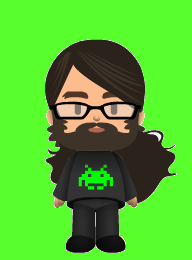
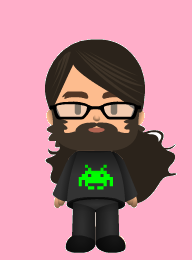
27/11/15

diff --git a/Tema4/js/arrayMatematicos.js b/Tema4/js/arrayMatematicos.js
@@ -1,0 +1,110 @@
+window.onload = function(){
+    var texto  = document.getElementById("texto").value;
+    var resultado ="";
+}
+
+//Definición del Objeto y sus métodos con Prototype
+function ArrayMatematicos(filas,columnas){
+    this.filas=filas;
+    this.columnas=columnas;
+    this.datos= this.rellenarArray();
+}
+
+ArrayMatematicos.prototype.sumar=function (array2){
+    total = new ArrayMatematicos(this.filas,this.columnas);
+    for (var i = 0; i < this.filas; i++) {
+        for (var j = 0; j < this.columnas; j++) {
+            total.datos[i][j]= this.datos[i][j] + array2.datos[i][j];
+        }
+    }
+    return total;
+}
+
+ArrayMatematicos.prototype.restar=function(array2) {
+    total = new ArrayMatematicos(this.filas,this.columnas);
+    for (var i = 0; i < this.filas; i++) {
+        for (var j = 0; j < this.columnas; j++) {
+            total.datos[i][j] = this.datos[i][j] - array2.datos[i][j];
+        }
+    }
+    return total;
+}
+
+ArrayMatematicos.prototype.multiplicar=function(array2){
+    total = new ArrayMatematicos(this.filas,this.columnas);
+    for (var i = 0; i < this.filas; i++){
+        for (var j = 0; j < total.columnas; j++){
+            for (var k = 0; k < this.columnas; k++) {
+                total.datos[i][j] += this.datos[i][k] * array2.datos[k][j];
+            }
+        }
+    }
+    return total;
+}
+
+ArrayMatematicos.prototype.mostrarArray= function() {
+    resultado = "";
+    for (var i = 0; i < this.filas; i++) {
+        for (var j = 0; j < this.columnas; j++) {
+            resultado += this.datos[i][j] + "  ";
+        }
+        resultado += "<br/>";
+    }
+    return resultado;
+}
+
+ArrayMatematicos.prototype.rellenarArray = function(){
+    var datos = new Array();
+    for (var i = 0; i < this.filas; i++) {
+        datos[i] = new Array();
+        for (var j = 0; j < this.columnas; j++)
+            datos[i][j] = Math.floor(Math.random()*10);
+    }
+    return datos;
+}
+
+ArrayMatematicos.prototype.transponer=function(){
+    total = new ArrayMatematicos(this.filas,this.columnas);
+    for (var i = 0; i < total.filas; i++) {
+        for (var j = 0; j < total.columnas; j++) {
+            total.datos[i][j] = this.datos[j][i];
+        }
+    }
+    return total;
+}
+
+//Funciones para usabilidad del HTML
+function generar(){
+    var filas1 = document.getElementById("filas1").value;
+    var filas2 = document.getElementById("filas2").value;
+    var columnas1 = document.getElementById("columnas1").value;
+    var columnas2 = document.getElementById("columnas2").value;
+    array1 = new ArrayMatematicos(filas1,columnas1);
+    array2 = new ArrayMatematicos(filas2,columnas2);
+    resultado = "Primer Array: <br/>" + array1.mostrarArray() + "Segundo Array: <br/>" + array2.mostrarArray();
+    texto.innerHTML = resultado;
+}
+
+function sumar(){
+    array = array1.sumar(array2);
+    resultado = "Resultado de la Suma: <br/>" + array.mostrarArray();
+    texto.innerHTML = resultado;
+}
+
+function restar(){
+    array = array1.restar(array2);
+    resultado = "Resultado de la Resta: <br/>" + array.mostrarArray();
+    texto.innerHTML = resultado;
+}
+
+function multiplicar(){
+    array = array1.multiplicar(array2);
+    resultado = "Resultado de la Multiplicación: <br/>" + array.mostrarArray();
+    texto.innerHTML = resultado;
+}
+
+function trasponer(){
+    array = array1.transponer();
+    resultado = "El array1 traspuesto es: <br/>" + array.mostrarArray();
+    texto.innerHTML = resultado;
+}

diff --git a/index.html b/index.html
@@ -4,28 +4,15 @@
         <title>Pedro J. Ramos</title>
         <link rel="stylesheet" href="css/normalize.css">
         <link rel="stylesheet" href="css/main.css">
-        <script language="javascript" type="text/javascript">
-            ddsmoothmenu.init({
-	           mainmenuid: "templatemo_menu", //menu DIV id
-	           orientation: 'h', //Horizontal or vertical menu: Set to "h" or "v"
-	           classname: 'ddsmoothmenu', //class added to menu's outer DIV
-	           //customtheme: ["#1c5a80", "#18374a"],
-	           contentsource: "markup" //"markup" or ["container_id", "path_to_menu_file"]
-            })
-            function clearText(field){
-                if (field.defaultValue == field.value) field.value = '';
-                else if (field.value == '') field.value = field.defaultValue;
-            }
-        </script>
     </head>
     <body>
-        <div id="templatemo_wrapper">
-	       <div id="templatemo_header">
-	  	        <div id="site_title"><img src="img/pic.png"><h1>Pedro J. Ramos</h1><br/></div>
-            </div>
-            <div id="templatemo_main">
-        <h2>Índice de ejercicios</h2>
-        <div id="cajaIndices">
+        <div id="web">
+	       <header>
+	  	        <img src="img/pic.png"><h1>Pedro J. Ramos</h1>
+            </header>
+            <main>
+                <h2>Índice de ejercicios</h2>
+                <div id="cajaIndices">
             <div class="indice">
             <h3>Tema 1 - Arquitecturas y herramientas de programación</h3>
                 <ul>
@@ -101,24 +88,21 @@
                     <li><a rel="nofollow" href="Tema4/String.html">String</a></li>
                     <li><a rel="nofollow" href="Tema4/Array2.html">Array2</a></li>
                     <li><a rel="nofollow" href="Tema4/PrimosClosure.html">Primos Closure</a></li>
+                    <li><a rel="nofollow" href="Tema4/ArrayMatematicos.html">Array Matematicos</a></li>
                 </ul>
             </div>
         </div>
-        <div id="templatemo_bottom_wrapper">
-            <div id="templatemo_footer_wrapper">    
-                <div id="templatemo_footer">
-        <center><p> 2015/2016&nbsp;&nbsp;&nbsp;&nbsp;&nbsp;&nbsp;&nbsp;&nbsp;&nbsp;&nbsp;&nbsp;
+        <footer>
+            <center><p> 2015/2016&nbsp;&nbsp;&nbsp;&nbsp;&nbsp;&nbsp;&nbsp;&nbsp;&nbsp;&nbsp;&nbsp;
             2º DAW&nbsp;&nbsp;&nbsp;&nbsp;&nbsp;&nbsp;&nbsp;&nbsp;&nbsp;&nbsp;&nbsp;
             Pedro J. Ramos&nbsp;&nbsp;&nbsp;&nbsp;&nbsp;&nbsp;&nbsp;&nbsp;&nbsp;&nbsp;&nbsp;
     	   <a href="http://pjdaw.tk/">Blog</a>&nbsp;&nbsp;&nbsp;&nbsp;&nbsp;&nbsp;&nbsp;&nbsp;&nbsp;&nbsp;&nbsp;
            <a href="mailto:pedro.jonathan.ramos@gmail.com">Email</a>&nbsp;&nbsp;&nbsp;&nbsp;&nbsp;&nbsp;&nbsp;&nbsp;&nbsp;&nbsp;&nbsp;
            <a href="http://twitter/RaRuP777/">Twitter</a>&nbsp;&nbsp;&nbsp;&nbsp;&nbsp;&nbsp;&nbsp;&nbsp;&nbsp;&nbsp;&nbsp;
            <a href="https://github.com/RaRuP777/">GitHub</a>&nbsp;&nbsp;&nbsp;&nbsp;&nbsp;&nbsp;&nbsp;&nbsp;&nbsp;&nbsp;&nbsp;
-        </p></center>
-        </div><!-- END of templatemo_footer -->
-        </div><!-- END of templatemo_footer_wrapper -->
-        </div>
-        </div>
+            </p></center>
+        </footer>
+        </main>
         </div>
     </body>
 </html>

diff --git a/css/main.css b/css/main.css
@@ -5,7 +5,7 @@ body {
     font-family: Verdana, Arial, Helvetica, sans-serif;
     font-size: 16px;
     line-height: 20px; 
-    background-color: #89ff44; 
+    background-color: #FFBFEF; 
     background-position: top;
     background-repeat: repeat-x
 }
@@ -24,18 +24,6 @@ h3 { font-size:20px; margin-bottom: 20px; }
 h4 { font-size:18px; margin-bottom: 10px; }
 h5 { font-size:16px }
 h6 { font-size:14px }
-
-.header { 
-    display: block 
-}
-
-.left { 
-    float: left 
-}
-
-.right { 
-    float: right 
-}
 
 a:link, a:visited { 
     color: #00f; text-decoration: none
@@ -58,75 +46,22 @@ p {
     margin: 0 0 15px 0 
 }
 
-#templatemo_wrapper {
+#web {
     width: 960px;
     padding: 0 10px;
     margin: 0 auto
 }
 
-#templatemo_header {
+header {
     height: 120px;
     width: 100%;
 }
-
-#templatemo_menu {
-    height: 56px;
-}
-
-#templatemo_slider {
-    padding: 10px 0;
-    height: 350px;
-    margin-top: 40px;
-}
-
-#templatemo_main {
-    padding: 40px 0 20px;
-}
-
-#templatemo_bottom_wrapper {
-    width: 100%;
-    border-top: 5px solid #f7f5f3;
-    background: #ebe7e4
-}
-
-#templatemo_bottom {
-    width: 960px;
-    margin: 0 auto;
-    padding: 20px 10px;
-}
-
-#templatemo_footer_wrapper {
-    width: 100%;
-        
-    border-top: 5px solid #000;
-    background: #222222 
-}
-
-#templatemo_footer {
-    width: 960px;
-    vertical-align: bottom;
-    margin: 0 auto; 
-    padding: 10px 10px 5px;
-    color: white;
-}
-
-#templatemo_footer a{
-    color: red;
-}
-
-#templatemo_footer a:hover{
-    color: blue;
-}
-
-#site_title { 
+img, h1{
     float: left; margin-top: 40px; 
 }
 
-#site_title a { 
-    display: block; 
-    font-size: 50px; 
-    font-family: Georgia, "Times New Roman", Times, serif; height: 45px; 
-    color: #acacac;
+main {
+    padding: 40px 0 20px;
 }
 
 .indice {
@@ -139,4 +74,25 @@ p {
     vertical-align: top;
     height: 300px;
     overflow: auto;
+}
+
+footer {
+    width: 100%;
+    border-top: 5px solid #f7f5f3;
+    background: #ebe7e4;
+    border-top: 5px solid #000;
+    background: #222222;
+    width: 960px;
+    vertical-align: bottom;
+    margin: 0 auto; 
+    padding: 10px 10px 5px;
+    color: white;
+}
+
+footer a{
+    color: red;
+}
+
+footer a:hover{
+    color: blue;
 }

diff --git a/Tema4/ArrayMatematicos.html b/Tema4/ArrayMatematicos.html
@@ -1,0 +1,34 @@
+<html>
+<head>
+	<meta charset="UTF-8">
+	<title>ArraysMatamaticos - Pedro J. Ramos</title>
+	<script type="text/javascript" 
+		src="js/arrayMatematicos.js">
+	</script>
+	<link rel="stylesheet" href="../css/normalize.css">
+    <link rel="stylesheet" href="../css/form.css">
+</head>
+<body>
+	<form><fieldset>
+		<p>Primer Array</p>
+		<label>Introduzca la cantidad de filas del array </label>
+		<input type="text" id="filas1" size="2" autofocus required/><br/>
+		<label>Introduzca la cantidad de columnas del array </label>
+		<input type="text" id="columnas1" size="2" required/><br/>
+	<hr/>
+		<p>Segundo Array</p>
+		<label>Introduzca la cantidad de filas del array </label>
+		<input type="text" id="filas2" size="2" autofocus required/><br/>
+		<label>Introduzca la cantidad de columnas del array </label>
+		<input type="text" id="columnas2" size="2" required/><br/>
+	<hr/>
+		<input type="button" value="Generar" onclick="generar()" /><br><hr/>
+		<input type='button' value='Sumar'onclick='sumar()'/>
+		<input type='button' value='Restar'onclick='restar()'/>
+		<input type='button' value='Multiplicar'onclick='multiplicar()'/>
+		<input type='button' value='Trasponer'onclick='trasponer()'/>
+	</fieldset>
+	<p id="texto"><p>
+	</form>
+</body>
+</html>

diff --git a/css/form.css b/css/form.css
@@ -1,15 +1,20 @@
 form {
+  padding: 15px;
   position: relative;
   width  : 740px;
   height : 498px;
   margin : 0 auto;
 }
 fieldset{
-  background-color: #0FF;
+  background-color: #FFBFEF;
 }
 
 label {
   font : 1em "typewriter", sans-serif;
+}
+
+p{
+	font : 1.5em "typewriter", sans-serif;
 }
 
 input, textarea {
@@ -17,11 +22,11 @@ input, textarea {
   padding : 0 10px;
   margin  : 0;
   width   : 240px;
-  background: none;
+  background: rgba(0,0,0,.1);
 }
 
 input:focus, textarea:focus {
-  background   : rgba(0,0,0,.1);
+  background   : rgba(0,0,0,.3);
   border-radius: 5px;
   outline      : none;
 }
@@ -63,9 +68,8 @@ button:after {
   content: " >>>";
 }
 
-button:hover,
-button:focus {
+button:hover, button:focus {
   outline   : none;
-  background: #000;
+  background: rgba(0,0,0,.5);
   color   : #FFF;
 }
